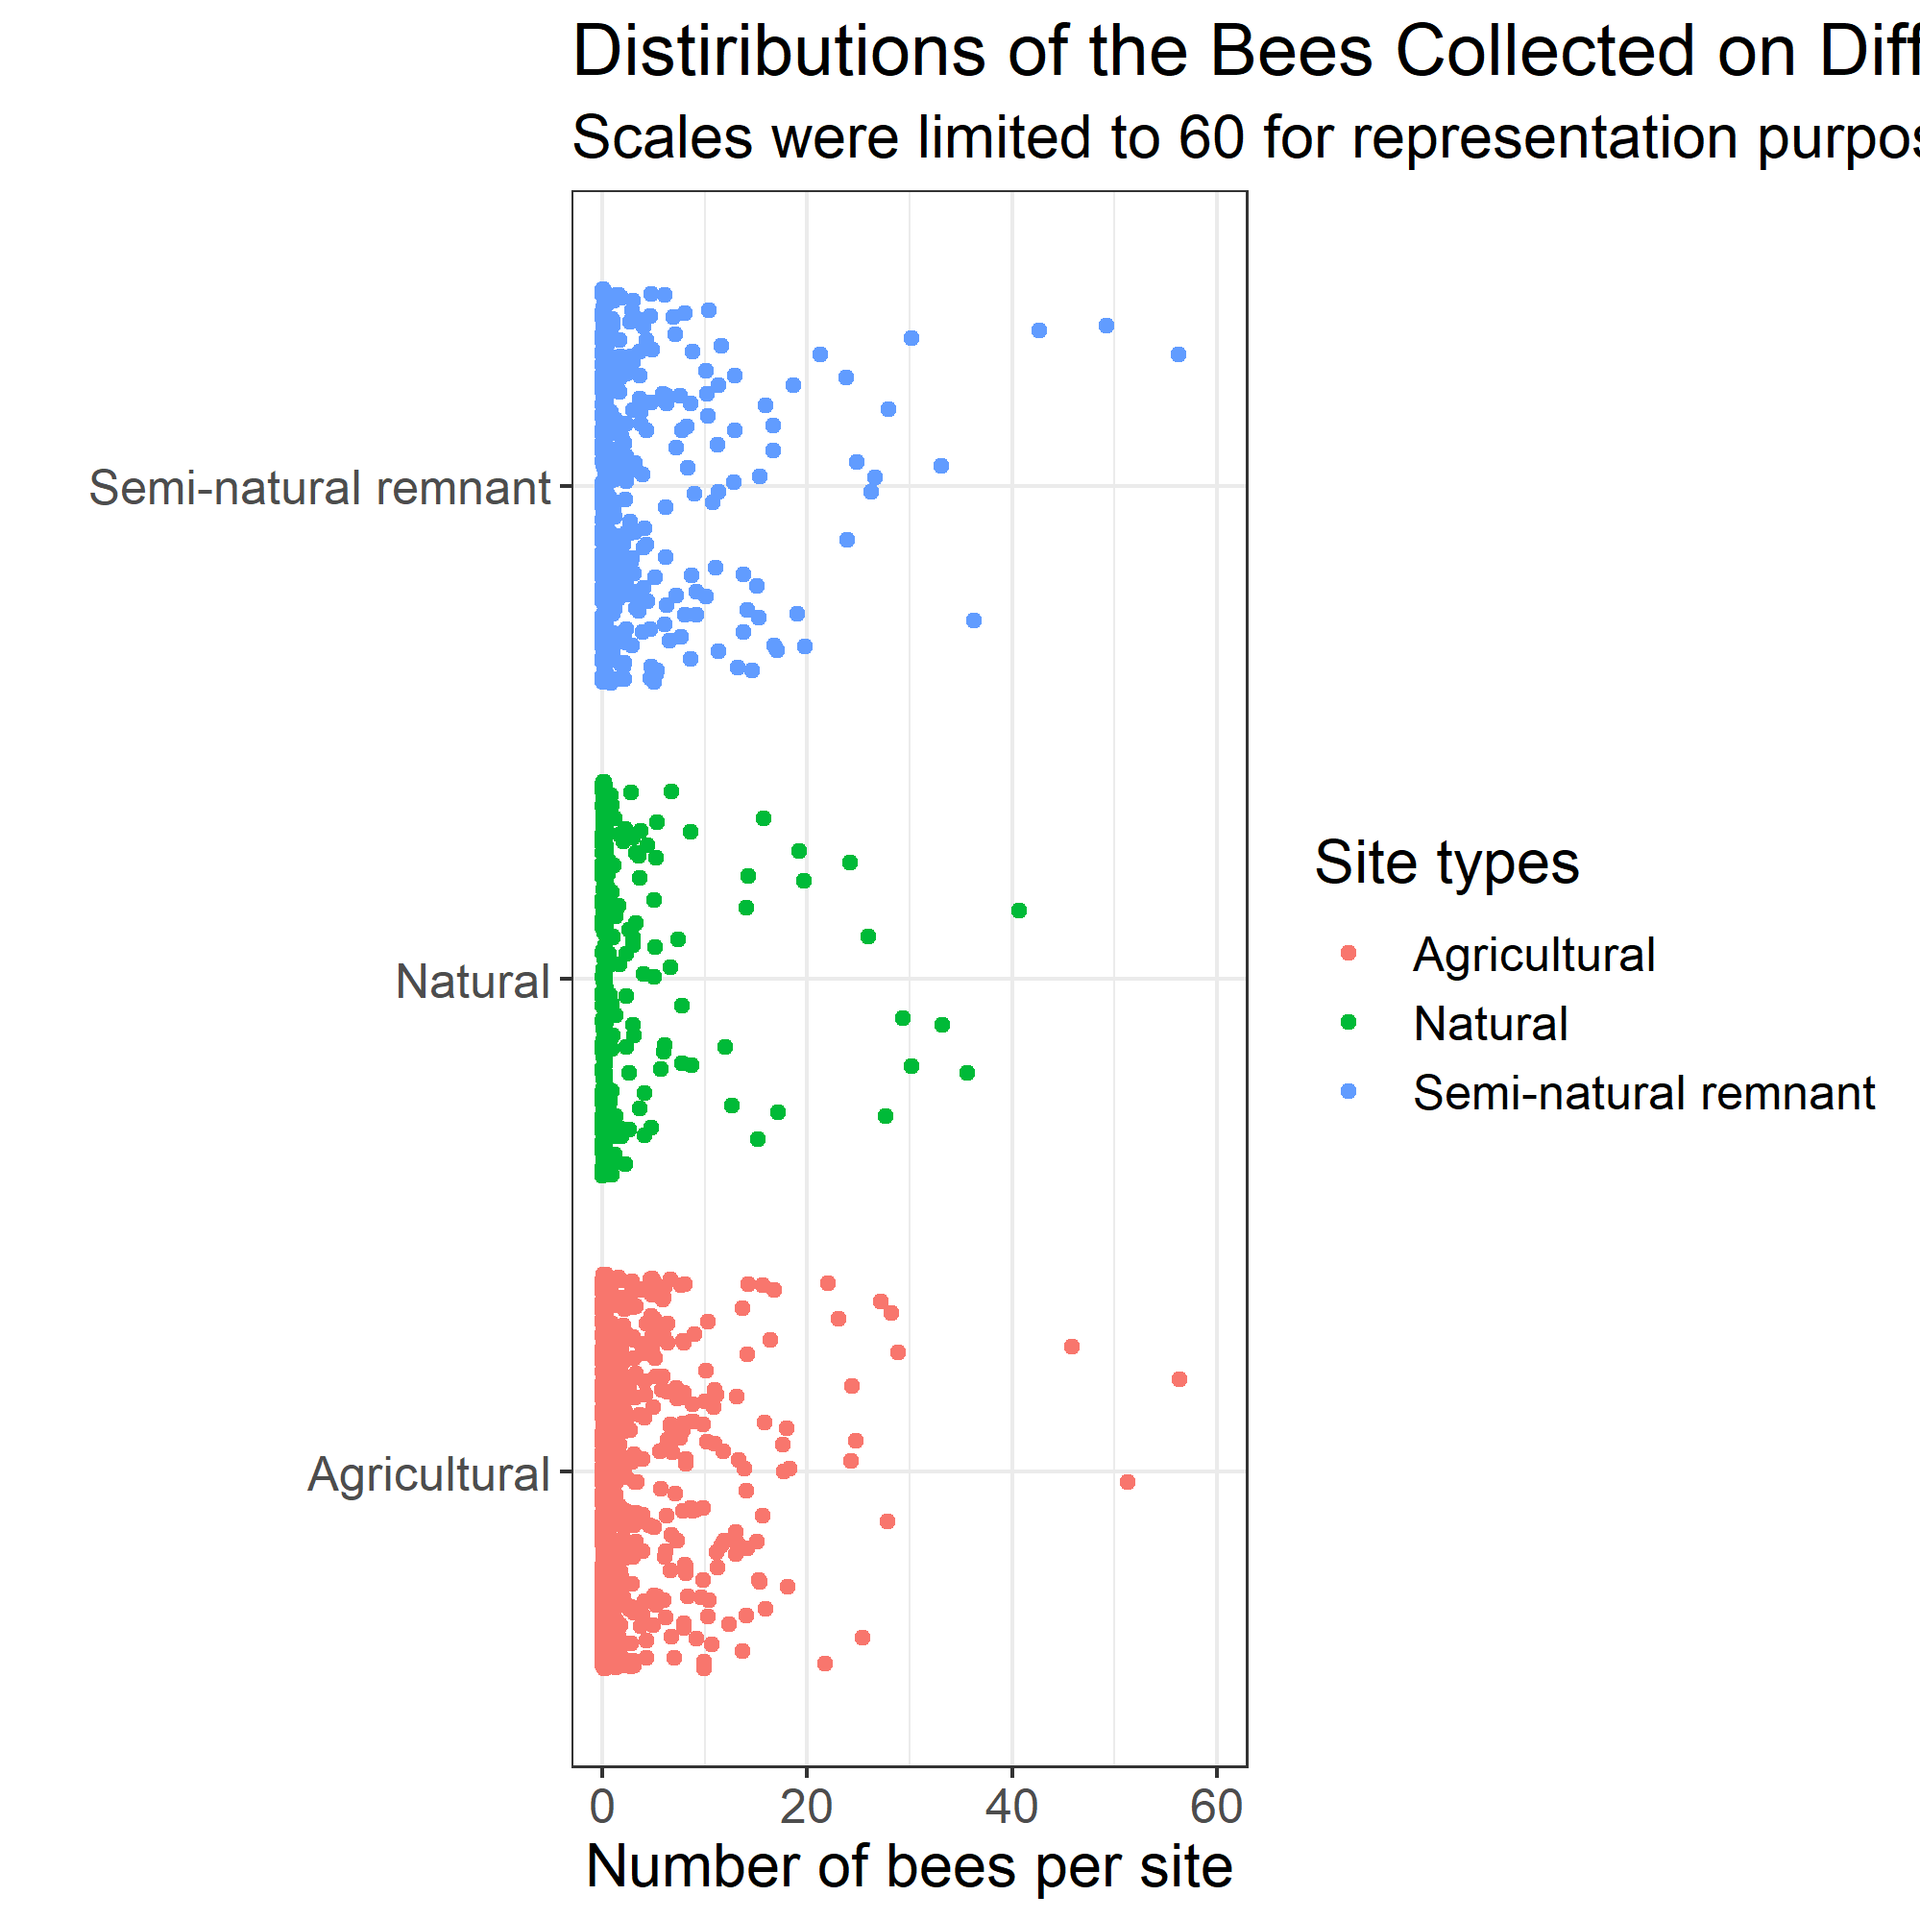
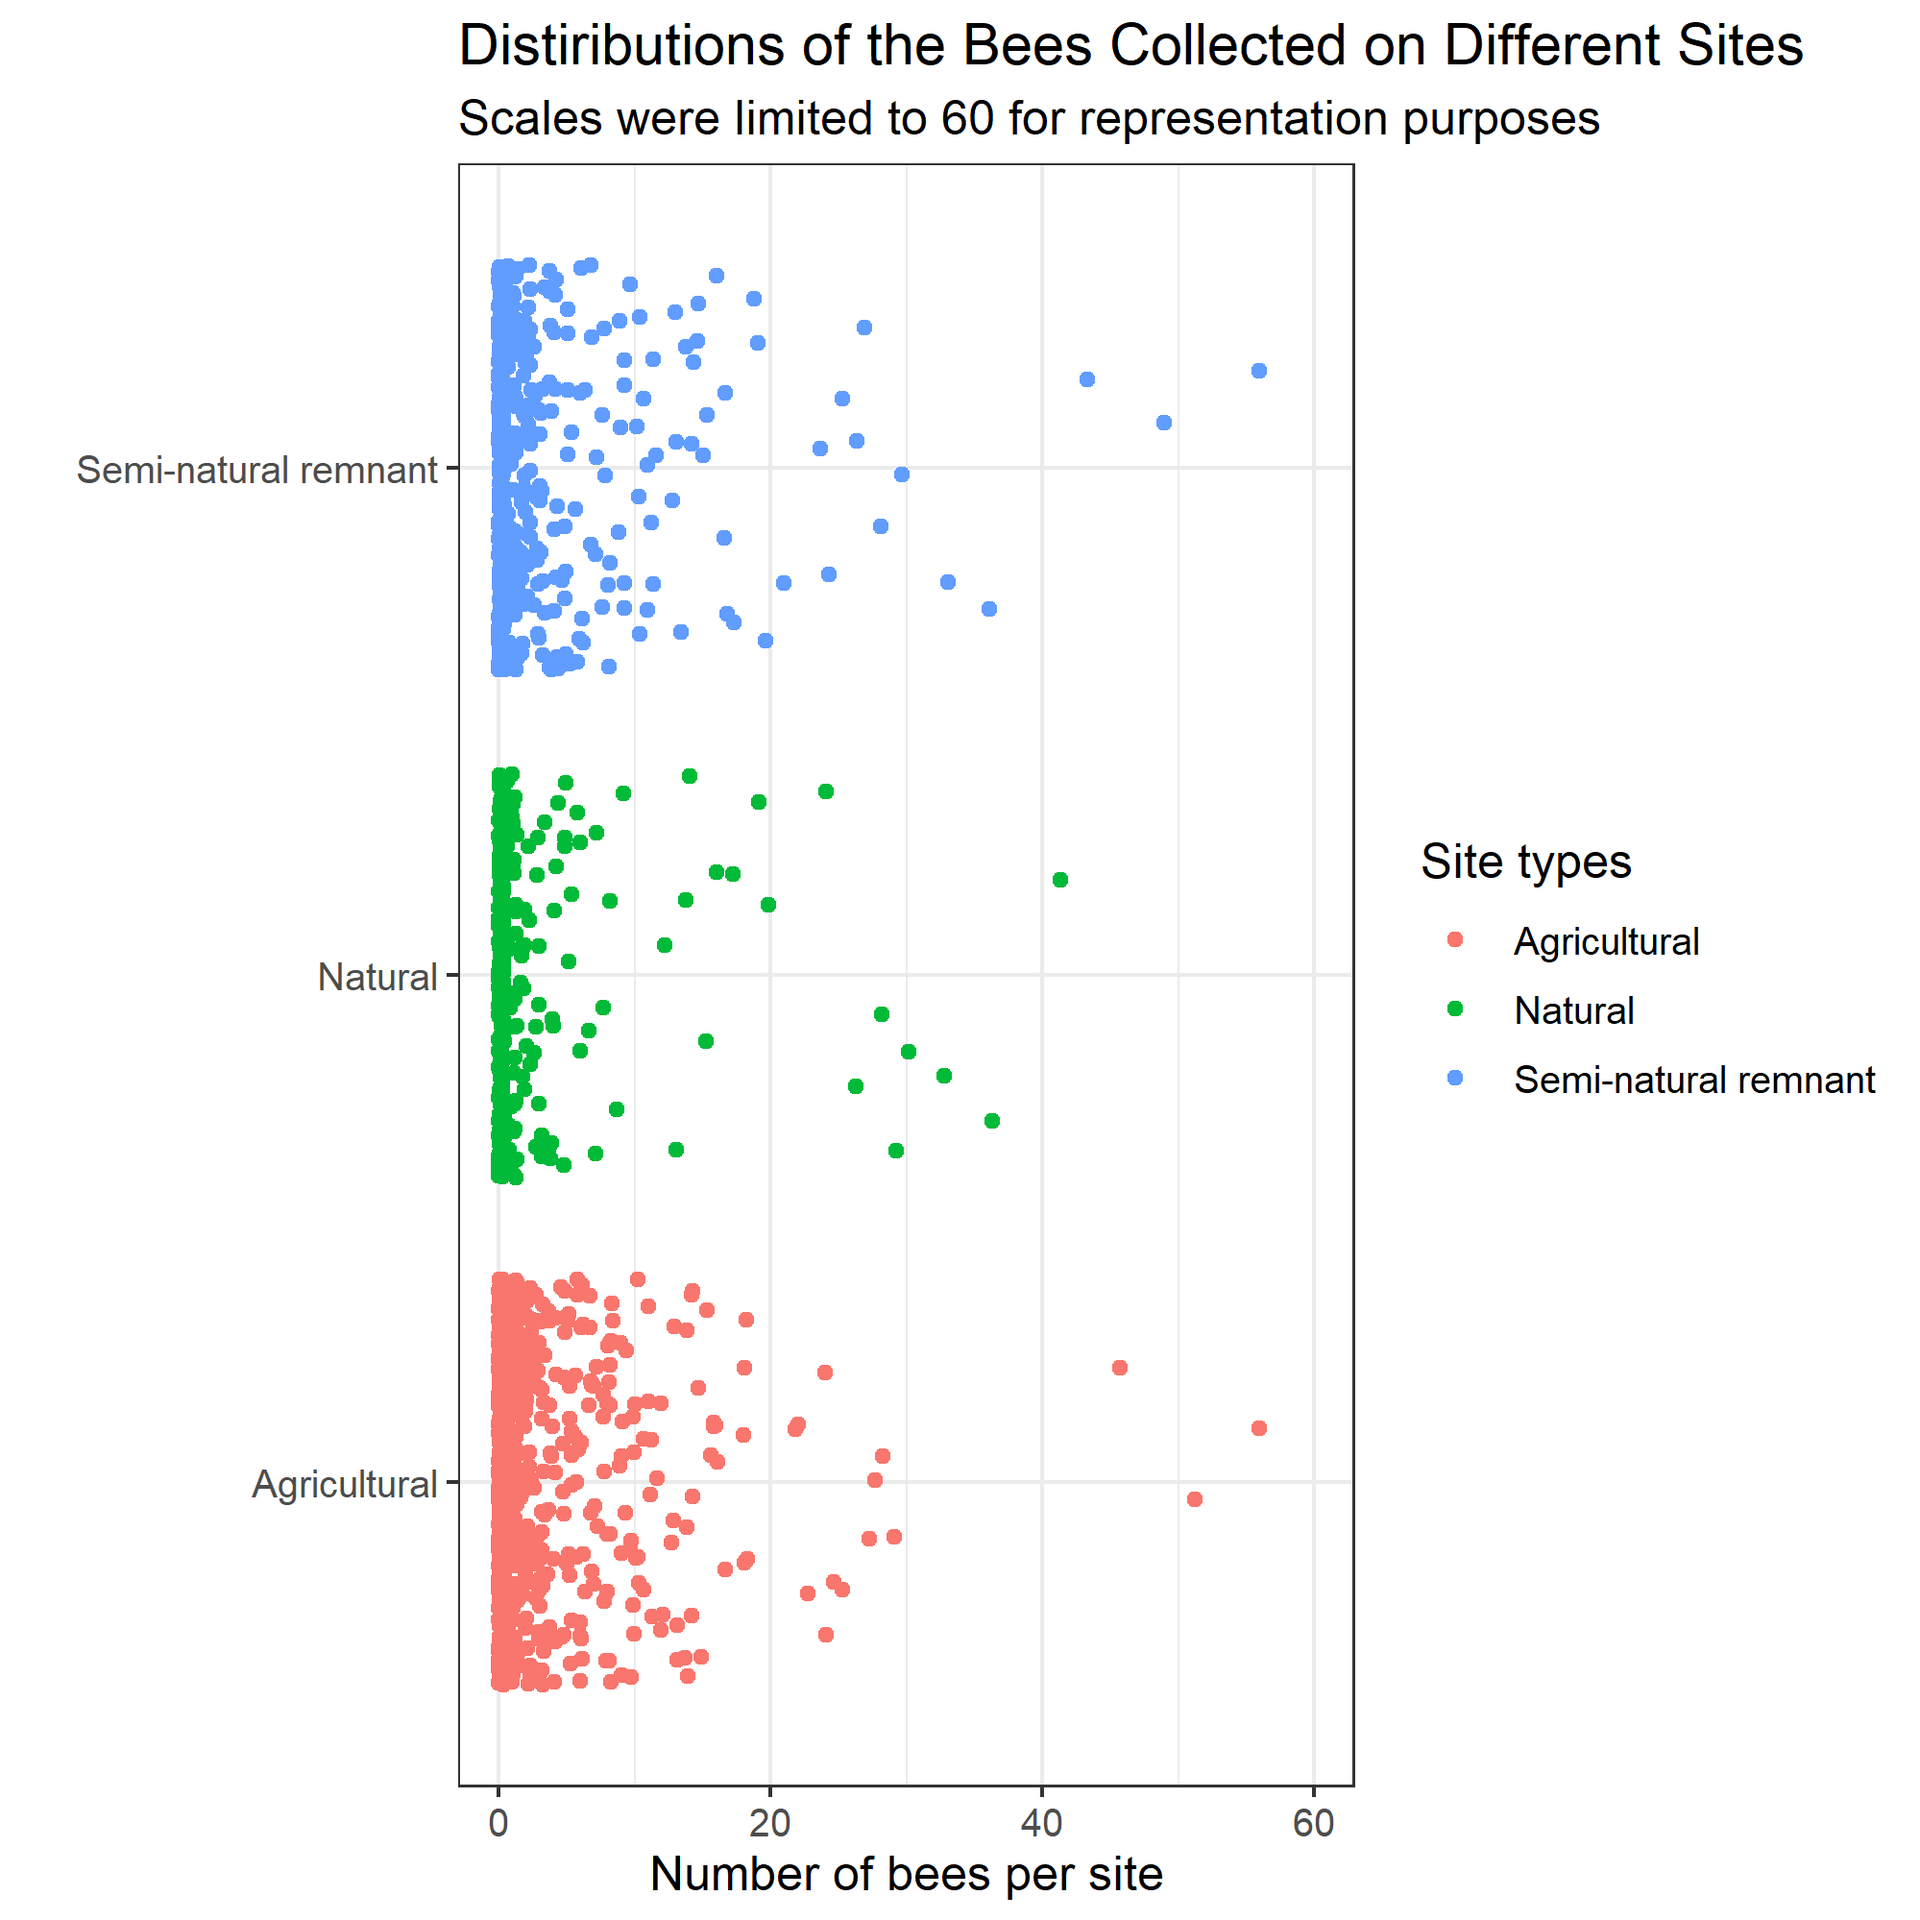
resized the figure

diff --git a/src/eda_bee.md b/src/eda_bee.md
@@ -58,7 +58,7 @@ The following violin plot shows not only the distribution of the number of bees 
 
 Figure 4 shows the jitter plot for the number of bees collected at each site. The hypothesis testing would be required to find out whether the number of bees collected at each site is different from one another.   
 
-<img src="bee_df_jitter.png" width="1000">
+<img src="bee_df_jitter.png" width="800">
 
 **Figure 4**. The distribution of the bees collected on different sites
 
